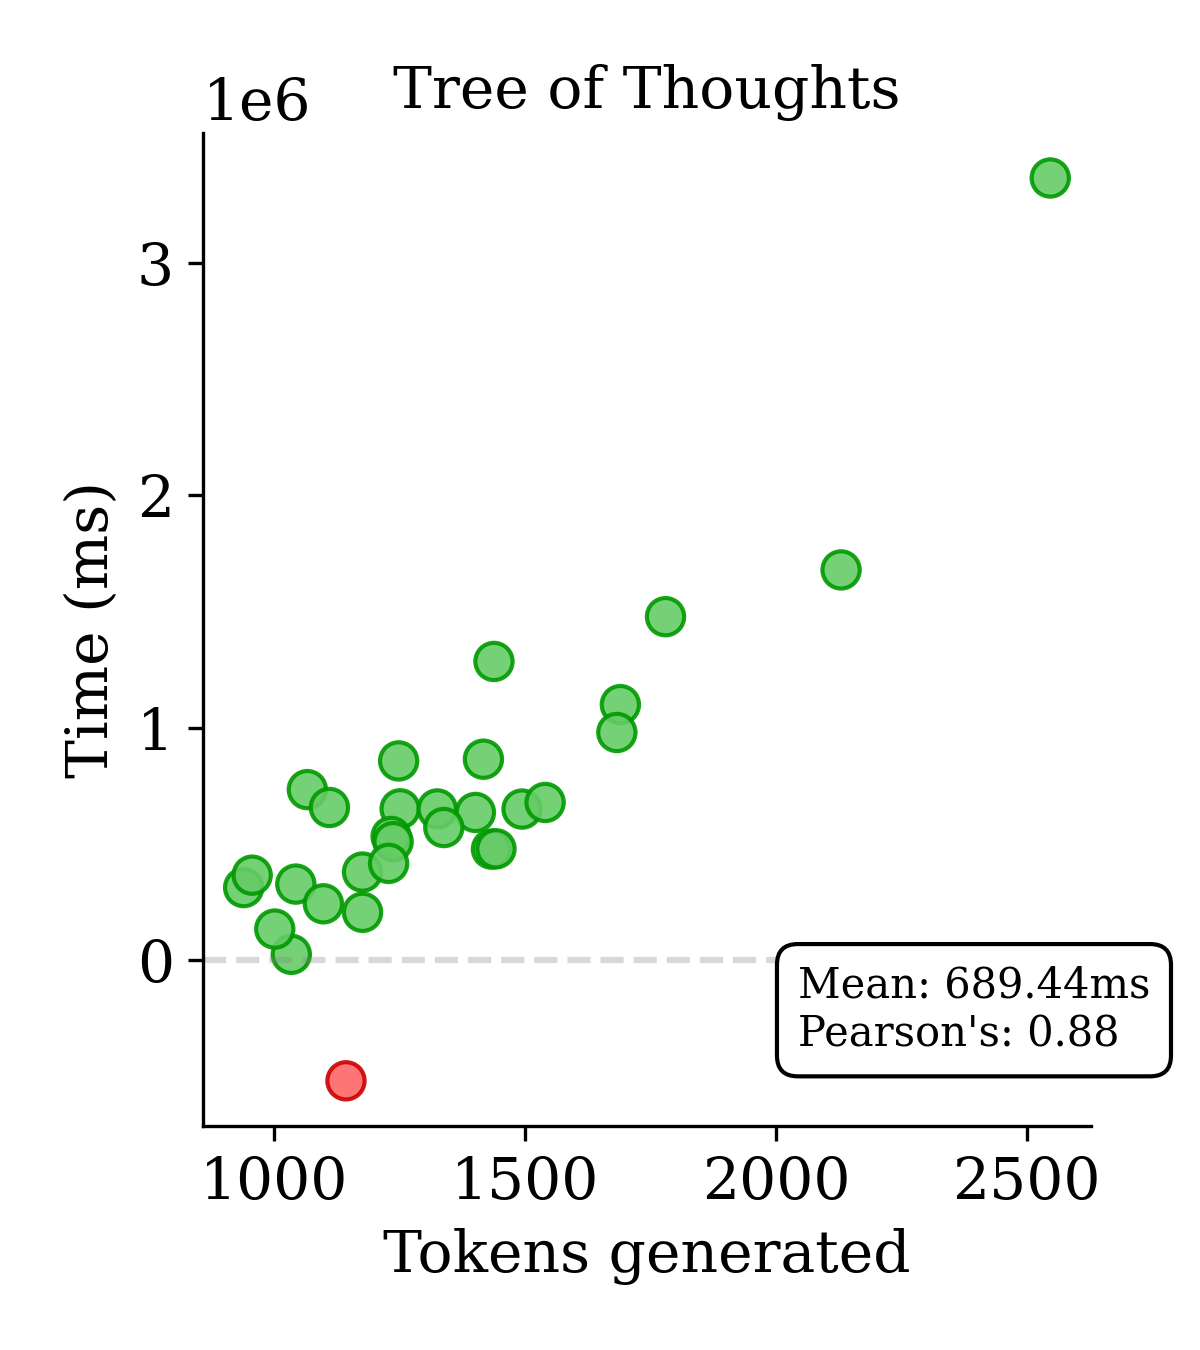
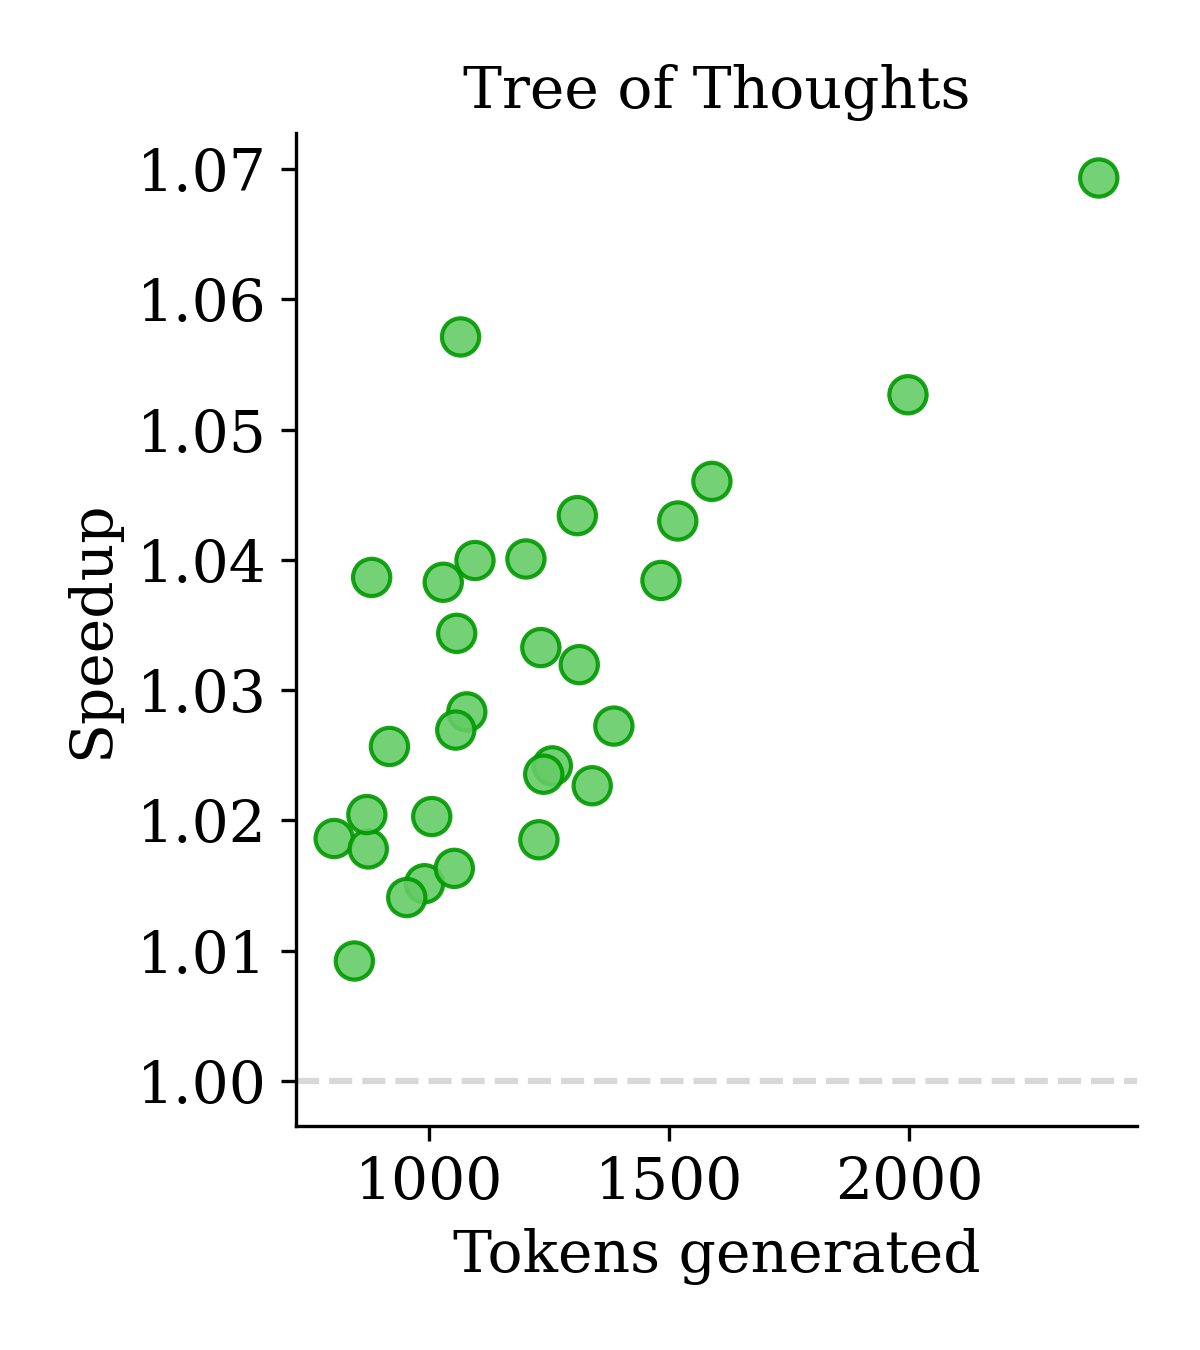
some figures

diff --git a/repl/tot_repl.py b/repl/tot_repl.py
@@ -319,112 +319,99 @@ plt.savefig("pd_leakage_shifts.png", bbox_inches="tight", dpi=300)
 
 plt.show()
 
-# %%
-import json
-import numpy as np
-import matplotlib.pyplot as plt
-from scipy import stats
-
-with open('dumps/tot/perf_B-8_V-4.json') as f:
-    data = json.load(f)
-
-plt.rcParams.update({
-    'font.family': 'serif',
-    'font.size': 14,
-    'axes.titlesize': 14,
-    'savefig.dpi': 300,
-    'figure.dpi': 300,
-})
-
-fig, ax = plt.subplots(figsize=(4, 4.5))
-
-x = np.array([d.get('tokens', i) for i, d in enumerate(data['baseline'])])
-baseline_times = np.array([b['wall_time'] * 1000 for b in data['baseline']])
-cached_times = np.array([c['wall_time'] * 1000 for c in data['cached']])
-diffs = baseline_times - cached_times
-
-mean_abs_diff = np.mean(diffs)
-corr, p_value = stats.pearsonr(x, diffs)
-
-colors = ['#ff6666' if diff < 0 else '#66cc66' for diff in diffs]
-edge_colors = ['#cc0000' if diff < 0 else '#009900' for diff in diffs]
-scatter = ax.scatter(x, diffs * 1000, c=colors, edgecolor=edge_colors, s=80, alpha=0.9)
-
-stats_text = (f"Mean: {mean_abs_diff:.2f}ms\n" f"Pearson's: {corr:.2f}")
-
-ax.text(
-    0.67, 0.08, stats_text,
-    transform=ax.transAxes,
-    bbox=dict(facecolor='white', edgecolor='black', boxstyle='round,pad=0.5'),
-    fontsize=10
-)
-
-ax.set_xlabel('Tokens generated')
-ax.set_ylabel('Time (ms)')
-ax.set_title('Tree of Thoughts')
-ax.axhline(y=0, color='gray', linestyle='--', alpha=0.3)
-
-plt.tight_layout()
-ax.spines['top'].set_visible(False)
-ax.spines['right'].set_visible(False)
-plt.savefig('figures/tot_perf_scatter.png')
 '''
 
-'''
-# %%
-import json
-import glob
-import numpy as np
-import re
-from collections import defaultdict
+# # %%
+# import json
+# import numpy as np
+# import matplotlib.pyplot as plt
+# from scipy import stats
 
-results = defaultdict(dict)
-for filename in glob.glob('dumps/tot/perf_B-*_V-*.json'):
-    match = re.search(r'B-(\d+)_V-(\d+)', filename)
-    if not match: continue
-    B, V = int(match.group(1)), int(match.group(2))
-    with open(filename) as f: data = json.load(f)
+# with open('dumps/tot/perf_B-8_V-4.json') as f:
+#     data = json.load(f)
 
-    baseline_times = np.array([b['wall_time'] for b in data['baseline']])
-    cached_times = np.array([c['wall_time'] for c in data['cached']])
-    baseline_cuda = np.array([b.get('cuda_time', 0) for b in data['baseline']])
-    cached_cuda = np.array([c.get('cuda_time', 0) for c in data['cached']])
-    baseline_ttft = np.array([b.get('ttft', 0) for b in data['baseline']])
-    cached_ttft = np.array([c.get('ttft', 0) for c in data['cached']])
+# plt.rcParams.update({
+#     'font.family': 'serif',
+#     'font.size': 14,
+#     'axes.titlesize': 14,
+#     'savefig.dpi': 300,
+#     'figure.dpi': 300,
+# })
 
-    results[(B, V)] = {
-        'wall_time': {
-            'baseline_mean': np.mean(baseline_times),
-            'cached_mean': np.mean(cached_times),
-            'speedup': np.mean(baseline_times) / np.mean(cached_times),
-            'diff_mean': np.mean(baseline_times - cached_times) * 1000  # ms
-        },
-        'cuda_time': {
-            'baseline_mean': np.mean(baseline_cuda),
-            'cached_mean': np.mean(cached_cuda),
-            'speedup': np.mean(baseline_cuda) / np.mean(cached_cuda) if np.mean(cached_cuda) > 0 else float('inf'),
-            'diff_mean': np.mean(baseline_cuda - cached_cuda) * 1000  # ms
-        },
-        'ttft': {
-            'baseline_mean': np.mean(baseline_ttft),
-            'cached_mean': np.mean(cached_ttft),
-            'speedup': np.mean(baseline_ttft) / np.mean(cached_ttft) if np.mean(cached_ttft) > 0 else float('inf'),
-            'diff_mean': np.mean(baseline_ttft - cached_ttft) * 1000  # ms
-        }
-    }
+# fig, ax = plt.subplots(figsize=(4, 4.5))
 
-print("| B | V | Wall Speedup | CUDA Speedup | TTFT Speedup |")
-print("|---|---|-------------|-------------|-------------|")
-for (B, V), metrics in sorted(results.items()):
-    print(f"| {B} | {V} | {metrics['wall_time']['speedup']:.3f}x | {metrics['cuda_time']['speedup']:.3f}x | {metrics['ttft']['speedup']:.3f}x |")
-'''
+# x = np.array([d.get('tokens', i) for i, d in enumerate(data['baseline'])])
+# baseline_times = np.array([b['wall_time'] * 1000 for b in data['baseline']])
+# cached_times = np.array([c['wall_time'] * 1000 for c in data['cached']])
+# diffs = baseline_times / cached_times
+
+# mean_abs_diff = np.mean(diffs)
+# colors = ['#ff6666' if diff < 1 else '#66cc66' for diff in diffs]
+# edge_colors = ['#cc0000' if diff < 0 else '#009900' for diff in diffs]
+# scatter = ax.scatter(x, diffs, c=colors, edgecolor=edge_colors, s=80, alpha=0.9)
+
+# ax.set_xlabel('Tokens generated')
+# ax.set_ylabel('Speedup')
+# ax.set_title('Tree of Thoughts')
+# ax.axhline(y=1, color='gray', linestyle='--', alpha=0.3)
+
+# plt.tight_layout()
+# ax.spines['top'].set_visible(False)
+# ax.spines['right'].set_visible(False)
+# plt.savefig('figures/tot_perf_scatter.png')
+
+# # %%
+# import json
+# import glob
+# import numpy as np
+# import re
+# from collections import defaultdict
+
+# results = defaultdict(dict)
+# for filename in glob.glob('dumps/tot/perf_B-*_V-*.json'):
+#     match = re.search(r'B-(\d+)_V-(\d+)', filename)
+#     if not match: continue
+#     B, V = int(match.group(1)), int(match.group(2))
+#     with open(filename) as f: data = json.load(f)
+
+#     baseline_times = np.array([b['wall_time'] for b in data['baseline']])
+#     cached_times = np.array([c['wall_time'] for c in data['cached']])
+#     baseline_cuda = np.array([b.get('cuda_time', 0) for b in data['baseline']])
+#     cached_cuda = np.array([c.get('cuda_time', 0) for c in data['cached']])
+#     baseline_ttft = np.array([b.get('ttft', 0) for b in data['baseline']])
+#     cached_ttft = np.array([c.get('ttft', 0) for c in data['cached']])
+
+#     results[(B, V)] = {
+#         'wall_time': {
+#             'baseline_mean': np.mean(baseline_times),
+#             'cached_mean': np.mean(cached_times),
+#             'speedup': np.mean(baseline_times) / np.mean(cached_times),
+#             'diff_mean': np.mean(baseline_times - cached_times) * 1000  # ms
+#         },
+#         'cuda_time': {
+#             'baseline_mean': np.mean(baseline_cuda),
+#             'cached_mean': np.mean(cached_cuda),
+#             'speedup': np.mean(baseline_cuda) / np.mean(cached_cuda) if np.mean(cached_cuda) > 0 else float('inf'),
+#             'diff_mean': np.mean(baseline_cuda - cached_cuda) * 1000  # ms
+#         },
+#         'ttft': {
+#             'baseline_mean': np.mean(baseline_ttft),
+#             'cached_mean': np.mean(cached_ttft),
+#             'speedup': np.mean(baseline_ttft) / np.mean(cached_ttft) if np.mean(cached_ttft) > 0 else float('inf'),
+#             'diff_mean': np.mean(baseline_ttft - cached_ttft) * 1000  # ms
+#         }
+#     }
+
+# print("| B | V | Wall Speedup | CUDA Speedup | TTFT Speedup |")
+# print("|---|---|-------------|-------------|-------------|")
+# for (B, V), metrics in sorted(results.items()):
+#     print(f"| {B} | {V} | {metrics['wall_time']['speedup']:.3f}x | {metrics['cuda_time']['speedup']:.3f}x | {metrics['ttft']['speedup']:.3f}x |")
 
 import json
 import glob
 import numpy as np
 import re
 import matplotlib.pyplot as plt
-from matplotlib.lines import Line2D
 from collections import defaultdict
 
 results = defaultdict(dict)
@@ -450,18 +437,24 @@ for filename in glob.glob('dumps/tot/perf_B-*_V-*.json'):
 
 plt.rcParams.update({
     'font.family': 'serif',
-    'font.size': 12,
-    'axes.labelsize': 14,
-    'axes.titlesize': 16,
+    'font.size': 16,
+    'axes.labelsize': 16,
+    'savefig.dpi': 300,
+    'figure.dpi': 300,
 })
 
 fig, (ax1, ax2) = plt.subplots(1, 2, figsize=(12, 5))
 
 B_values = sorted(set([B for (B, _) in results.keys()]))
-B_values.remove(16) # not enough datapoints and can't fit on GPU
+B_values.remove(16)  # not enough datapoints and can't fit on GPU
+B_values.remove(9)   # just so we have 2 to 8
 V_values = sorted(set([V for (_, V) in results.keys()]))
 
-for V in V_values:
+b_colors = plt.cm.plasma(np.linspace(0.0, 0.9, len(B_values)))
+v_colors = plt.cm.plasma(np.linspace(0.0, 0.9, len(V_values)))
+
+# Left plot: Speedup vs Branches
+for i, V in enumerate(V_values):
     b_values = []
     speedup_ratios = []
 
@@ -475,13 +468,26 @@ for V in V_values:
                 speedup_ratios.append(speedup)
 
     if len(b_values) > 1:
-        ax1.plot(b_values, speedup_ratios, 'o-',
-                 label=f"V={V}",
-                 linewidth=1.5,
-                 marker='o',
-                 markersize=6)
+        line, = ax1.plot(b_values, speedup_ratios, 'o-',
+                    color=v_colors[i],
+                    linewidth=1.5,
+                    marker='o',
+                    markersize=6)
 
-for B in B_values:
+        last_x, last_y = b_values[-1], speedup_ratios[-1]
+
+        y_offset = 12 if V == 8 else 2
+
+        ax1.annotate(f"V={V}",
+                    xy=(last_x, last_y),
+                    xytext=(10, y_offset),
+                    textcoords="offset points",
+                    ha="left", va="center",
+                    fontsize=10,
+                    bbox=dict(boxstyle="round,pad=0.3", fc=v_colors[i], ec="lightgray", alpha=0.5))
+
+# Right plot: Speedup vs Voters
+for i, B in enumerate(B_values):
     v_values = []
     speedup_ratios = []
 
@@ -495,29 +501,35 @@ for B in B_values:
                 speedup_ratios.append(speedup)
 
     if len(v_values) > 1:
-        ax2.plot(v_values, speedup_ratios, 'o-',
-                 label=f"B={B}",
+        line, = ax2.plot(v_values, speedup_ratios, 'o-',
+                 color=b_colors[i],
                  linewidth=1.5,
                  marker='o',
                  markersize=6)
 
+        last_x, last_y = v_values[-1], speedup_ratios[-1]
+        ax2.annotate(f"B={B}",
+                    xy=(last_x, last_y),
+                    xytext=(10, 0),
+                    textcoords="offset points",
+                    ha="left", va="center",
+                    fontsize=10,
+                    bbox=dict(boxstyle="round,pad=0.3", fc=b_colors[i], ec="lightgray", alpha=0.5))
+
 ax1.axhline(y=1, color='gray', linestyle='--', alpha=0.5)
 ax2.axhline(y=1, color='gray', linestyle='--', alpha=0.5)
 
-ax1.legend(frameon=True, facecolor='white', edgecolor='lightgray')
-ax2.legend(frameon=True, facecolor='white', edgecolor='lightgray')
-
 ax1.set_xlabel('Number of Branches')
-ax1.set_ylabel('Speedup Ratio (baseline/choreographed)')
+ax1.set_ylabel('Speedup (x)')
 ax1.set_title('Speedup vs. Branches')
 ax1.spines['top'].set_visible(False)
 ax1.spines['right'].set_visible(False)
 
 ax2.set_xlabel('Number of Voters')
-ax2.set_ylabel('Speedup Ratio (baseline/choreographed)')
+ax2.set_ylabel('Speedup (x)')
 ax2.set_title('Speedup vs. Voters')
 ax2.spines['top'].set_visible(False)
 ax2.spines['right'].set_visible(False)
 
 plt.tight_layout()
-plt.show()
+plt.savefig('figures/tot_perf_scaling.png')

diff --git a/repl/mad_repl.py b/repl/mad_repl.py
@@ -1,3 +1,4 @@
+'''
 # %%
 import json
 from llama.workflows.mad import load_ciar
@@ -22,3 +23,44 @@ for attempt, b, problem in zip(ours, baseline, ciar):
 
 # %%
 # what is percent well-formed for baseline? around 471/500 ~= 94%
+'''
+
+# %%
+import json
+import numpy as np
+import matplotlib.pyplot as plt
+from scipy import stats
+
+with open('dumps/mad/perf.json') as f:
+    data = json.load(f)
+
+plt.rcParams.update({
+    'font.family': 'serif',
+    'font.size': 14,
+    'axes.titlesize': 14,
+    'savefig.dpi': 300,
+    'figure.dpi': 300,
+})
+
+fig, ax = plt.subplots(figsize=(4, 4.5))
+
+x = np.array([d.get('tokens', i) for i, d in enumerate(data['baseline'])])
+baseline_times = np.array([b['cuda_time'] * 1000 for b in data['baseline']])
+cached_times = np.array([c['cuda_time'] * 1000 for c in data['cached']])
+# diffs = baseline_times - cached_times
+diffs = baseline_times / cached_times
+
+mean_abs_diff = np.mean(diffs)
+colors = ['#ff6666' if diff < 0 else '#66cc66' for diff in diffs]
+edge_colors = ['#cc0000' if diff < 0 else '#009900' for diff in diffs]
+scatter = ax.scatter(x, diffs, c=colors, edgecolor=edge_colors, s=80, alpha=0.9)
+
+ax.set_xlabel('Tokens generated')
+ax.set_ylabel('Speedup')
+ax.set_title('Iter. Multi-agent Debate')
+ax.axhline(y=1, color='gray', linestyle='--', alpha=0.3)
+
+plt.tight_layout()
+ax.spines['top'].set_visible(False)
+ax.spines['right'].set_visible(False)
+plt.savefig('figures/mad_perf_scatter.png')

diff --git a/repl/madpar_repl.py b/repl/madpar_repl.py
@@ -1,0 +1,4 @@
+# %%
+import json
+
+with open('dumps/')
